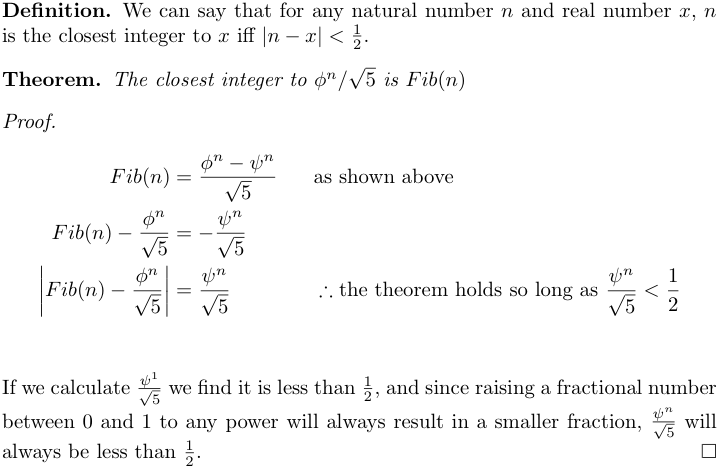
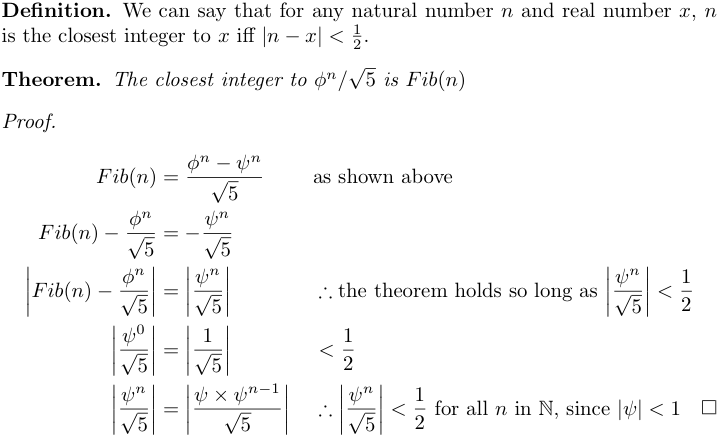
Attempt to improve the proof for 1.13
Adds a bit more rigour to the last bit about powers of psi always being
less than 1/2

diff --git a/ch01.scm.md b/ch01.scm.md
@@ -428,13 +428,13 @@ The closest integer to $\phi^n/\sqrt{5}$ is $Fib(n)$
 \begin{align*}
 Fib(n)                             &= \frac{\phi^n - \psi^n}{\sqrt{5}} && \text{as shown above}\\
 Fib(n) - \frac{\phi^n}{\sqrt{5}}   &= -\frac{\psi^n}{\sqrt{5}}                                 \\
-\left|Fib(n) - \frac{\phi^n}{\sqrt{5}}\right| &= \frac{\psi^n}{\sqrt{5}}
-  && \therefore \text{the theorem holds so long as $\frac{\psi^n}{\sqrt{5}} < \frac{1}{2}$}    \\
+\left|Fib(n) - \frac{\phi^n}{\sqrt{5}}\right| &= \left|\frac{\psi^n}{\sqrt{5}}\right|
+  && \therefore \text{the theorem holds so long as $\left|\frac{\psi^n}{\sqrt{5}}\right| < \frac{1}{2}$} \\
+\left|\frac{\psi^0}{\sqrt{5}}\right| &= \left|\frac{1}{\sqrt{5}}\right|    && < \frac{1}{2}  \\
+\left|\frac{\psi^n}{\sqrt{5}}\right| &= \left|\frac{\psi \times \psi^{n-1}}{\sqrt{5}}\right|
+  && \therefore \text{$\left|\frac{\psi^n}{\sqrt{5}}\right| < \frac{1}{2}$ for all $n$ in $\mathbb{N}$, since $|\psi| < 1$}
+  \qedhere
 \end{align*}
-If we calculate $\frac{\psi^1}{\sqrt{5}}$ we find it is less than $\frac{1}{2}$,
-and since raising a fractional number between $0$ and $1$ to any power will
-always result in a smaller fraction, $\frac{\psi^n}{\sqrt{5}}$ will always be
-less than $\frac{1}{2}$.
 \end{proof}
 \endminipage
 $](img/ex1.13-thm4.png?raw=true)
